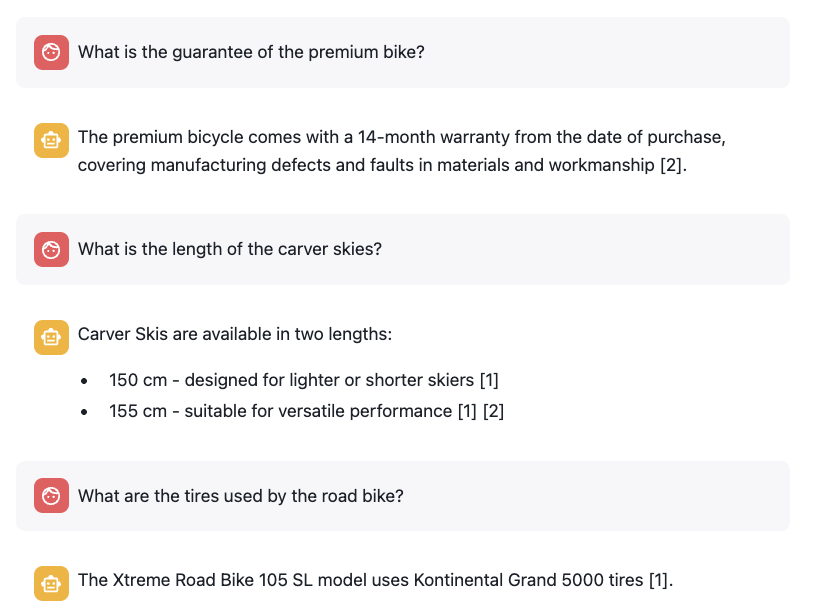
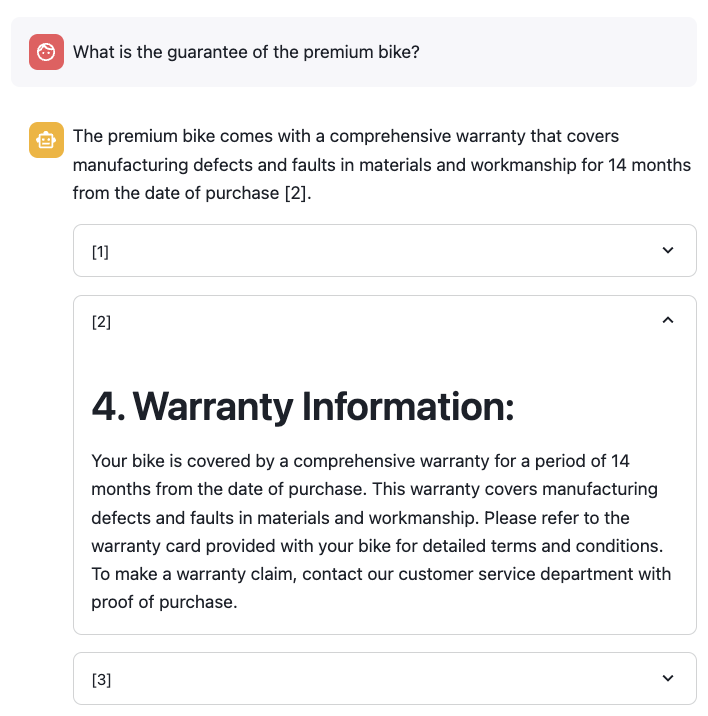
minor updates

diff --git a/streamlit_app.py b/streamlit_app.py
@@ -130,7 +130,6 @@ def process_sse_response(response):
 
 def display_citations(citations):
 
-    st.text(citations)
     for citation in citations:
         source_id = citation.get("source_id", "")
         doc_title = citation.get("doc_title", "")

diff --git a/README.md b/README.md
@@ -280,14 +280,14 @@ CREATE OR REPLACE TABLE DIM_ARTICLE (
 
 INSERT INTO DIM_ARTICLE (ARTICLE_ID, ARTICLE_NAME, ARTICLE_CATEGORY, ARTICLE_BRAND, ARTICLE_COLOR, ARTICLE_PRICE)
 VALUES 
-(1, 'Mondracer Infant Bike', 'Bike', 'Mondracer', 'Red', 3000),
-(2, 'Premium Bicycle', 'Bike', 'Veloci', 'Blue', 9000),
-(3, 'Ski Boots TDBootz Special', 'Ski Boots', 'TDBootz', 'Black', 600),
-(4, 'The Ultimate Downhill Bike', 'Bike', 'Graviton', 'Green', 10000),
-(5, 'The Xtreme Road Bike 105 SL', 'Bike', 'Xtreme', 'White', 8500),
-(6, 'Carver Skis', 'Skis', 'Carver', 'Orange', 790),
-(7, 'Outpiste Skis', 'Skis', 'Outpiste', 'Yellow', 900),
-(8, 'Racing Fast Skis', 'Skis', 'RacerX', 'Blue', 950);
+(1, 'Mondracer Infant Bike', 'Bike', 'Mondracer', 'Green', 3000),
+(2, 'Premium Bicycle', 'Bike', 'Veloci', 'Red', 9000),
+(3, 'Ski Boots TDBootz Special', 'Ski Boots', 'TDBootz', 'White', 600),
+(4, 'The Ultimate Downhill Bike', 'Bike', 'Graviton', 'Red', 10000),
+(5, 'The Xtreme Road Bike 105 SL', 'Bike', 'Xtreme', 'Grey', 8500),
+(6, 'Carver Skis', 'Skis', 'Carver', 'White', 790),
+(7, 'Outpiste Skis', 'Skis', 'Outpiste', 'Grey', 900),
+(8, 'Racing Fast Skis', 'Skis', 'RacerX', 'Grey', 950);
 ```
 
 Data for Customers:
@@ -474,13 +474,25 @@ Open the Streamlit App and try some of these questions:
 
 These are questions where the answer would be in the PDF documents. Examples:
 
-- What is the guarantee of the premium bike?
-- What is the length of the carver skies?
-- What are the tires used by the road bike?
+- **What is the guarantee of the premium bike?**
 
 ![image](img/10_2_unstructured_questions.png)
 
-Fell free to explore the PDF docs and ask your own questions
+The streamlit_app.py code contains a display_citations() function as example to show what are the pieces of information used by Cortex Agent to answer the questions. In this case we can see how it citates the warranty information extracted from the PDF file. 
+
+Try other questions:
+
+- **What is the length of the carver skies?**
+
+![image](img/10_2_carvers.png)
+
+As we have processed images, the description extracted can also be used to answer questions when using Cortex Agents. Here one example:
+
+- **Is there any brand in the frame of the downhill bike?**
+
+![image](img/10_2_santa_cruz.png)
+
+Fell free to explore the PDF docs and IMAGES files and ask your own questions
 
 ### Unstructured data questions
 
